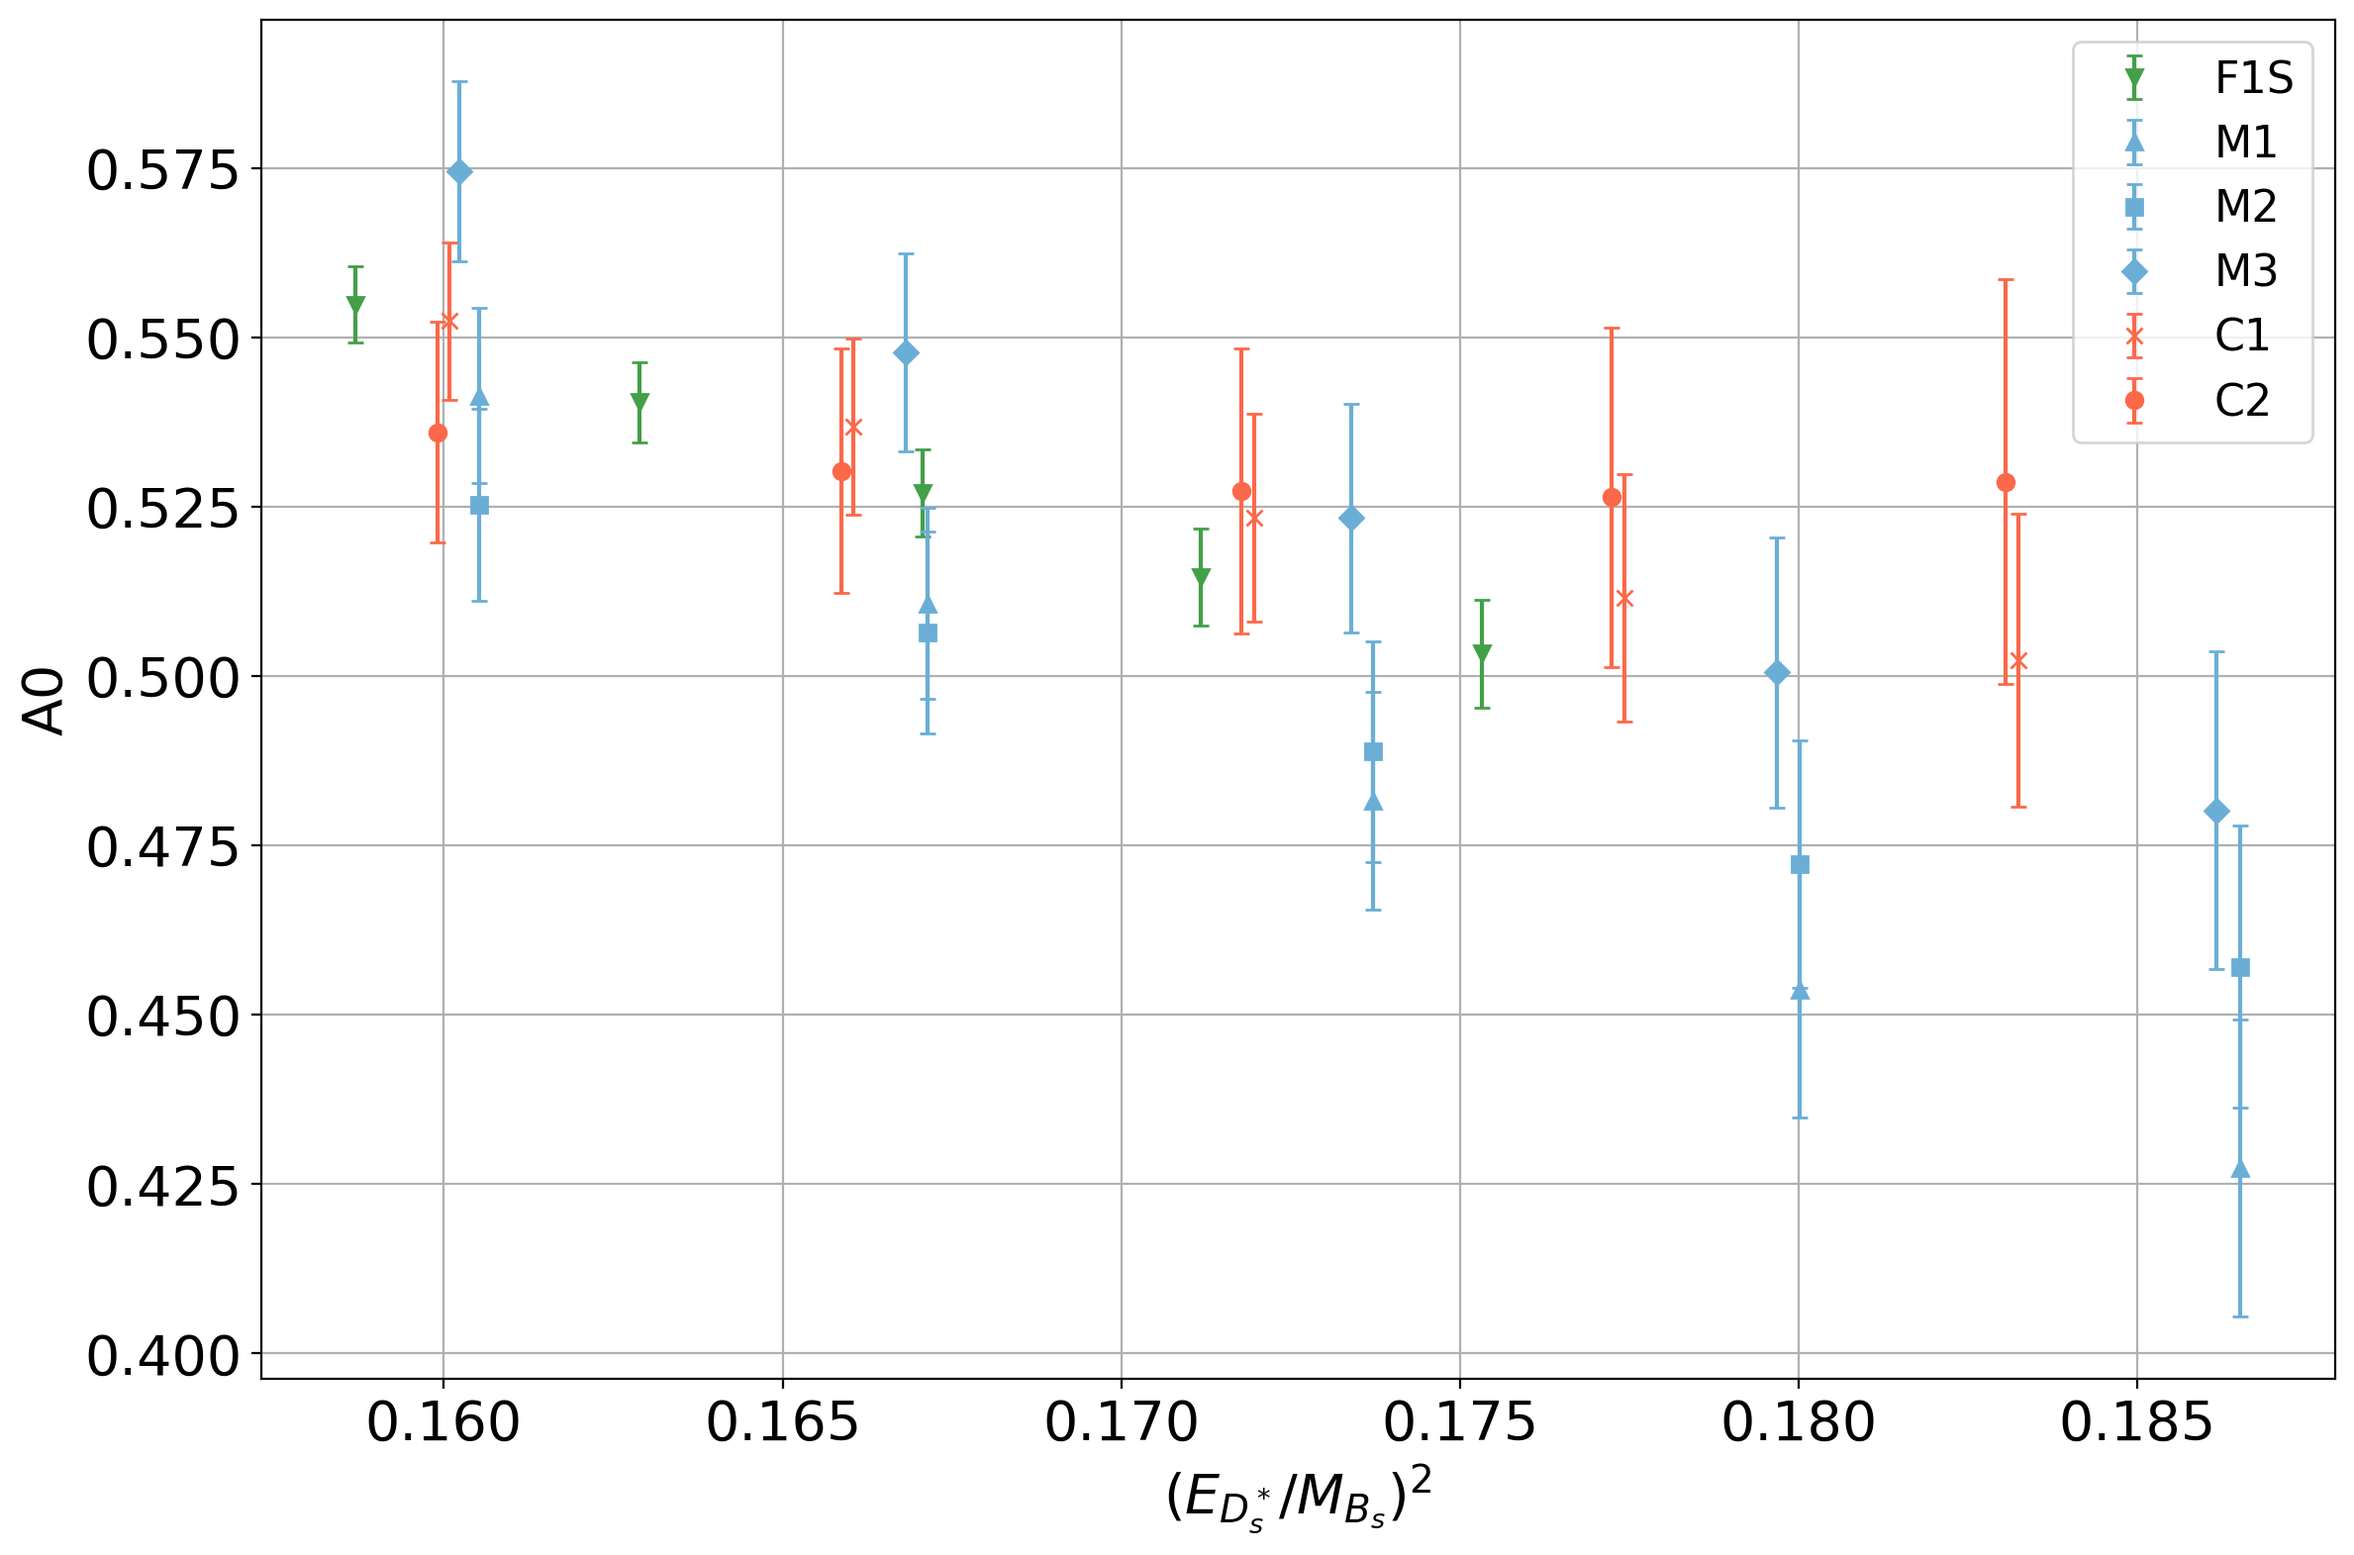
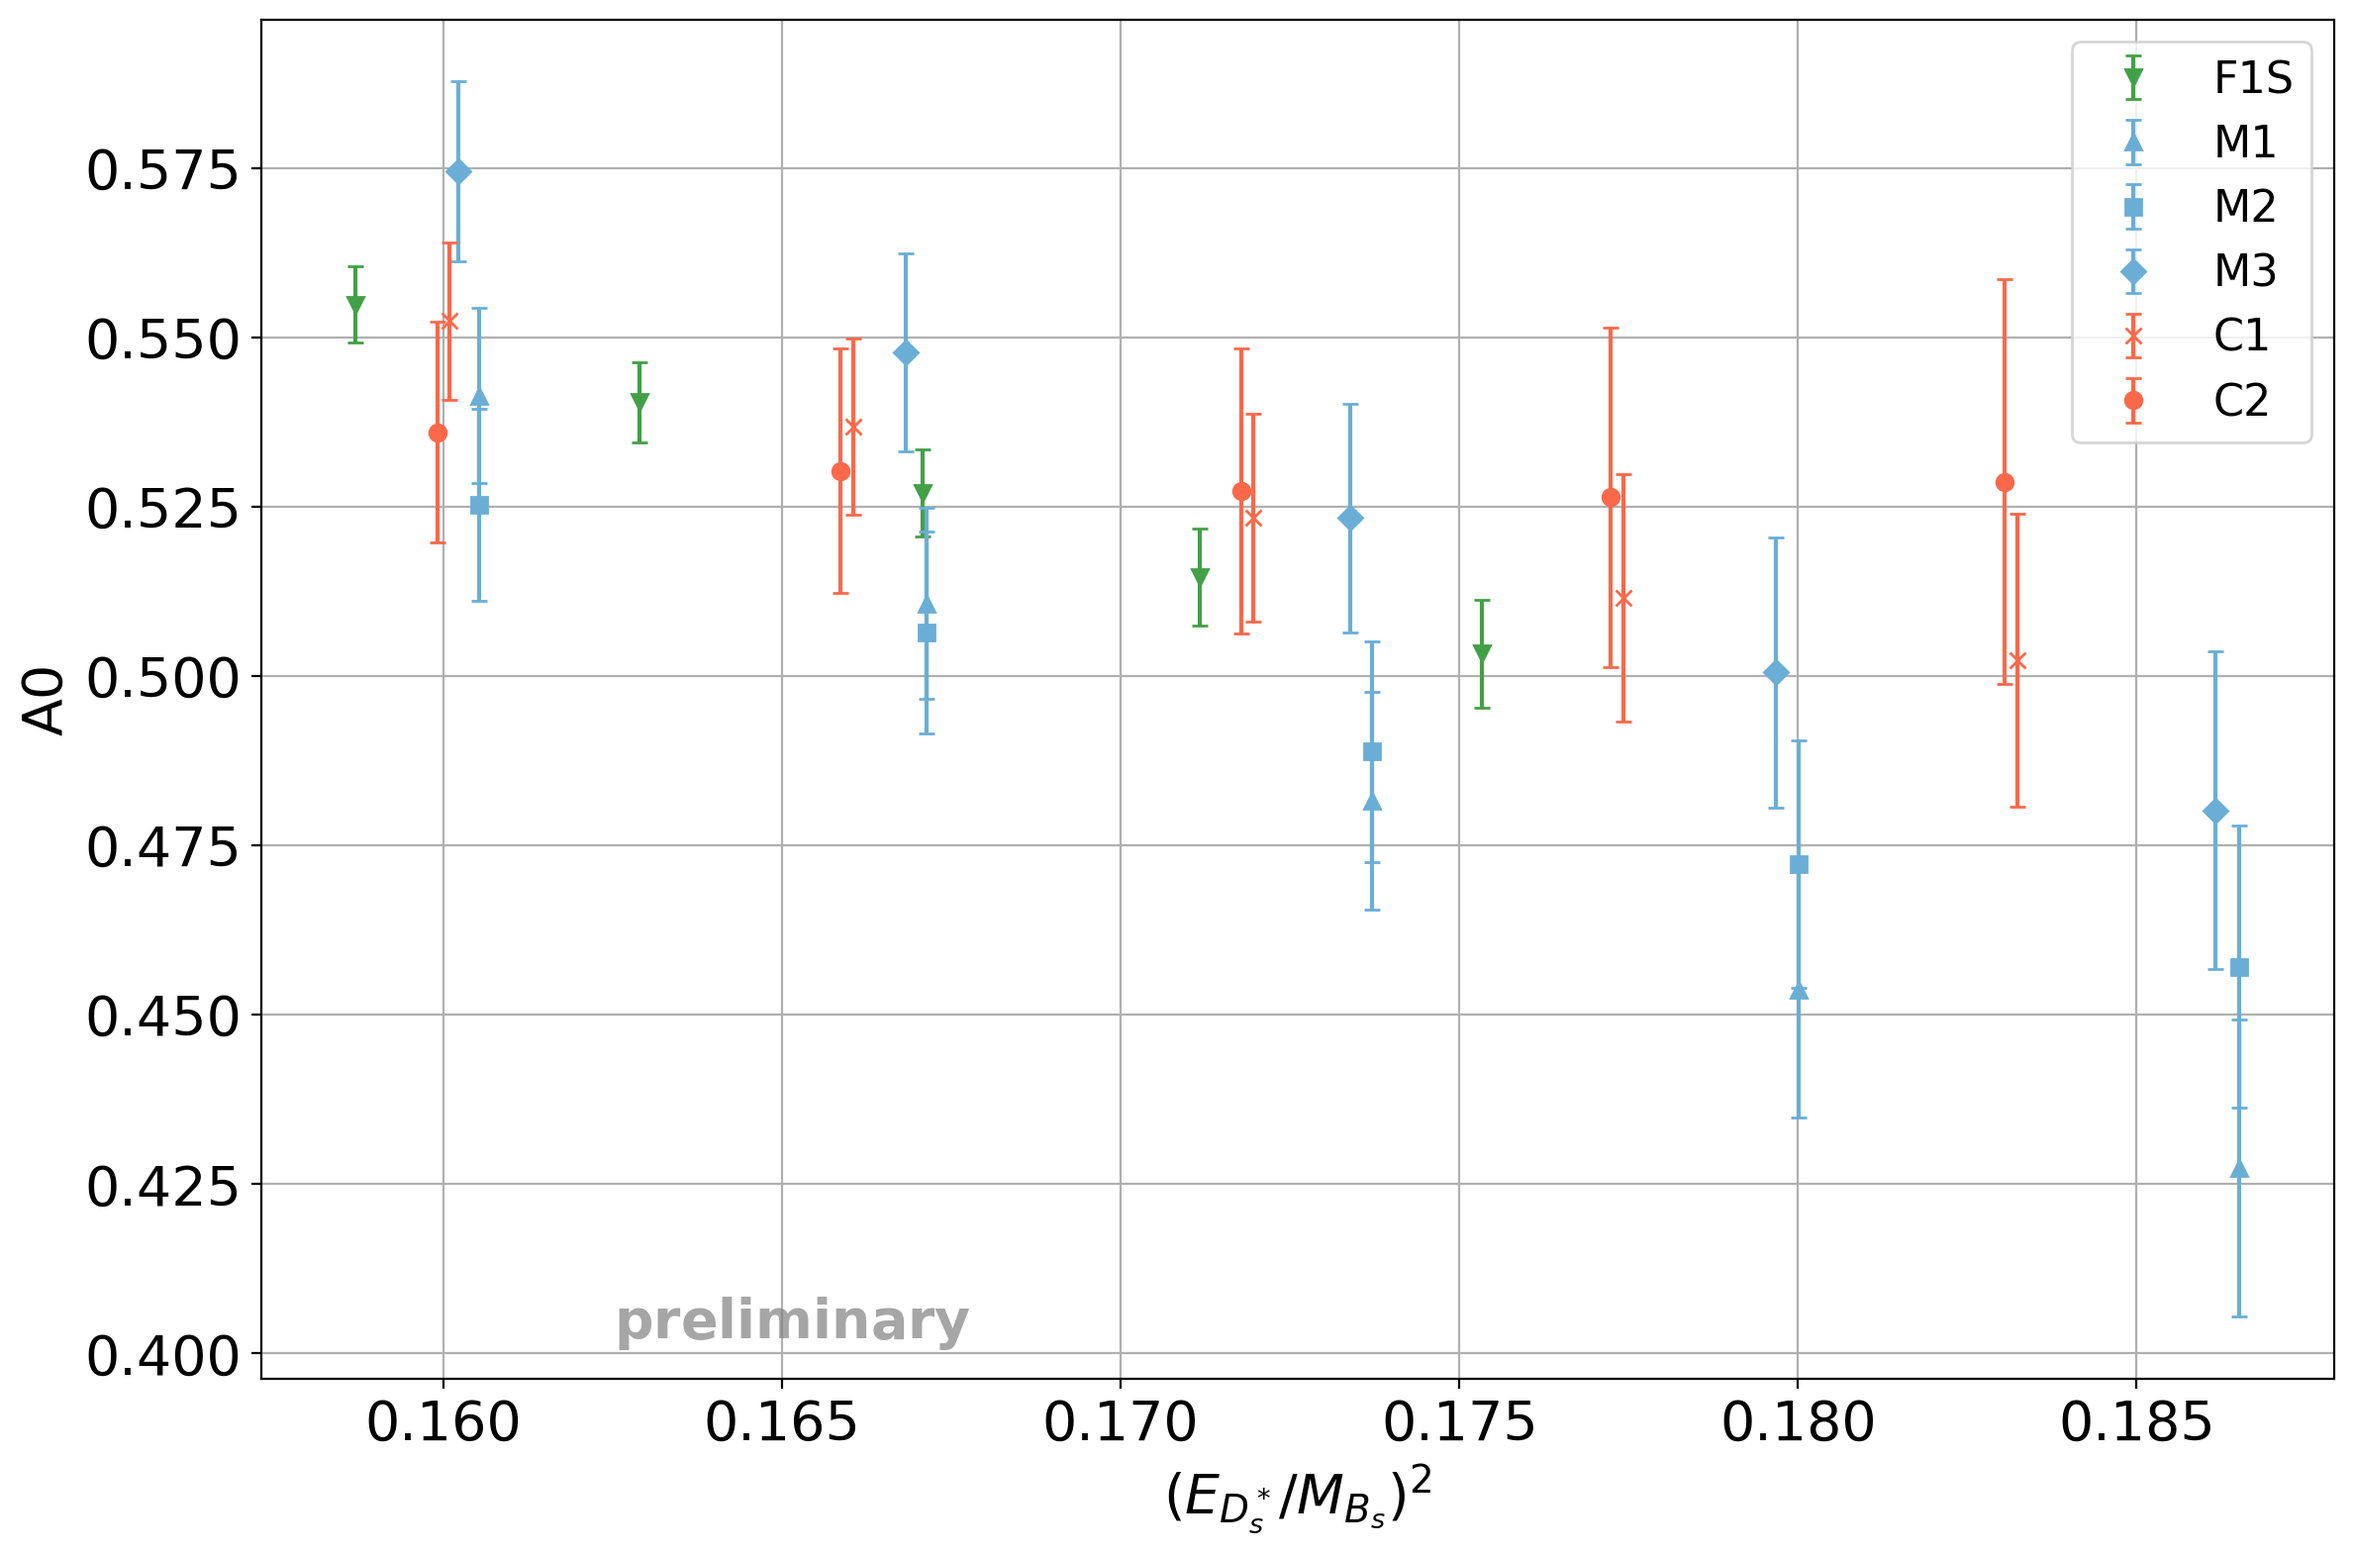
Added preliminary

Changed region(s): [[0.2491, 0.8421, 0.4047, 0.8733], [0.3113, 0.9045, 0.3424, 0.9357]]

diff --git a/Code/Plot-Final-Chiral.py b/Code/Plot-Final-Chiral.py
@@ -198,21 +198,22 @@ def ff_model(params, E_arr, ens_arr):
     f(E) = [c0 + c1 ΔM_phys + c2 E + c3 E^2 + c4 a_phys + c5 a_phys^2] / (E + de)
     All mass-like quantities here are in GeV, a_phys in GeV^-1.
     """
-    c0, c1, c2, c3, c4, c5 = params
+    #c0, c1, c2, c3, c4, c5 = params
+    c0, c1, c2, c3, c5 = params
     y = np.zeros_like(E_arr)
 
     for i, (E, ens) in enumerate(zip(E_arr, ens_arr)):
         inp = fit_inputs[ens]
-        DeltaM = inp["DeltaMpi_phys"]  # GeV
-        a_phys = inp["a_phys"]         # GeV^-1
+        DeltaM = inp["DeltaMpi_phys"]  
+        a = inp["a_phys"]        
 
         numer = (
             c0
             + c1 * DeltaM
             + c2 * E
             + c3 * E**2
-            + c4 * a_phys
-            + c5 * a_phys**2
+            #+ c4 * a
+            + c5 * a**2
         )
 
         y[i] = numer / (E + de)
@@ -349,7 +350,8 @@ def fit_and_plot_FF(FF, variables):
     E_arr, ens_arr, y_mean, C, Cinv, MBs_dict = build_data_for_fit(FF, variables)
 
     # Numerical minimization
-    npar = 6
+    #npar = 6
+    npar = 5
     p0 = np.zeros(npar)
     p0[0] = np.mean(y_mean)
 
@@ -357,7 +359,7 @@ def fit_and_plot_FF(FF, variables):
         chi2_global,
         p0,
         args=(E_arr, ens_arr, y_mean, Cinv),
-        method="Nelder-Mead",
+        method="BFGS",
     )
 
     if not result.success:

diff --git a/Code/Plot-Final-Charm.py b/Code/Plot-Final-Charm.py
@@ -252,6 +252,8 @@ def make_plot(FF, outname):
     plt.xlabel(r"$(E_{D_s^*}/M_{B_s})^2$", fontsize=20)
     plt.ylabel(FF, fontsize=20)
     plt.grid(True)
+    plt.annotate(r'$\bf{preliminary}$', xy=(0.17, 0.03), xycoords='axes fraction',
+             fontsize=20, color='grey', alpha=.7)
     plt.xticks(fontsize=20)
     plt.yticks(fontsize=20)
     plt.tight_layout()
